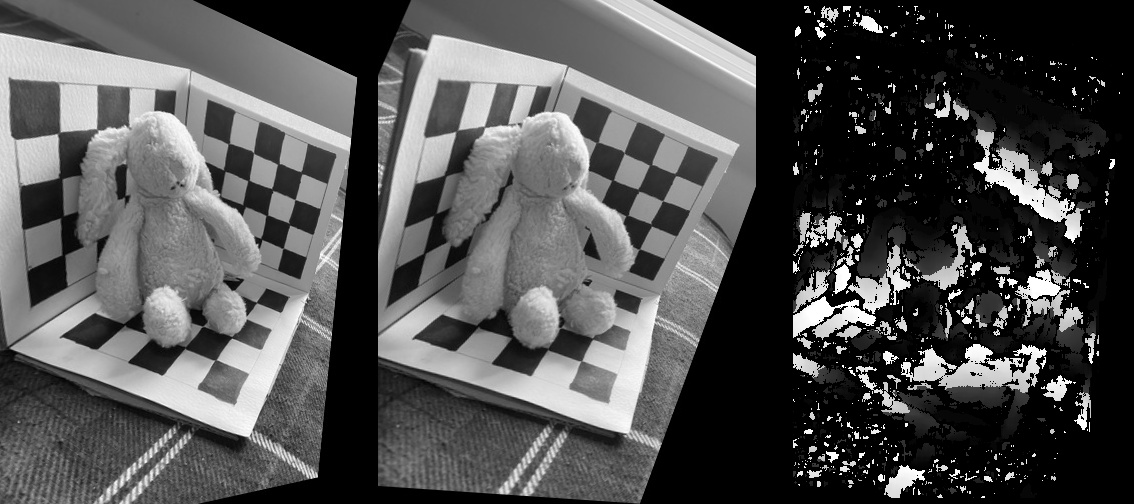
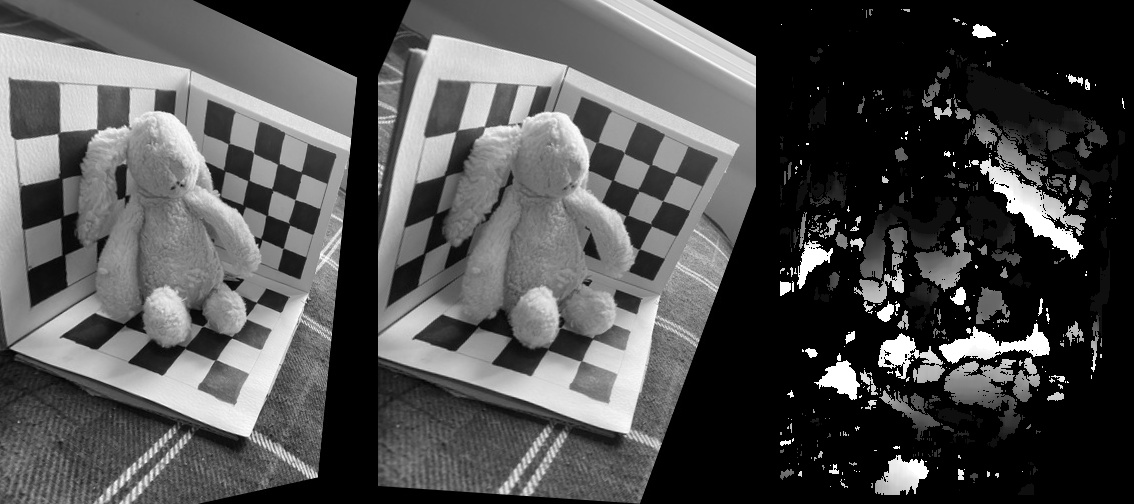
depth map update

diff --git a/task_5/stereo.py b/task_5/stereo.py
@@ -4,8 +4,8 @@ import matplotlib.pyplot as plt
 
 # Load the left and right images 
 # in gray scale 
-img1_name = '../images/FD_01.jpg'
-img2_name = '../images/FD_02.jpg'
+img1_name = '../images/FD_02.jpg'
+img2_name = '../images/FD_05.jpg'
 
 img1 = cv2.imread(img1_name, 0) 
 img2 = cv2.imread(img2_name, 0)
@@ -51,8 +51,8 @@ _, H1, H2 = cv2.stereoRectifyUncalibrated(
 # Adapted from: https://stackoverflow.com/a/62607343
 img1_rectified = cv2.warpPerspective(img1, H1, (w1, h1))
 img2_rectified = cv2.warpPerspective(img2, H2, (w2, h2))
-cv2.imwrite("rectified_5.jpg", img1_rectified)
-cv2.imwrite("rectified_6.jpg", img2_rectified)
+cv2.imwrite("rectified_02.jpg", img1_rectified)
+cv2.imwrite("rectified_05.jpg", img2_rectified)
 
 # Draw the rectified images
 fig, axes = plt.subplots(1, 2, figsize=(15, 10))
@@ -63,5 +63,5 @@ axes[1].axhline(250)
 axes[0].axhline(450)
 axes[1].axhline(450)
 plt.suptitle("Rectified images")
-plt.savefig("rectified_images2.jpg")
+plt.savefig("rectified_images_02-05.jpg")
 plt.show()

diff --git a/task_5/depth_map.py b/task_5/depth_map.py
@@ -3,11 +3,11 @@ import numpy as np
 import cv2
 from matplotlib import pyplot as plt
 
-imgL = cv2.imread('rectified_6.jpg',0)
-imgR = cv2.imread('rectified_5.jpg',0)
+imgL = cv2.imread('rectified_8.jpg',0)
+imgR = cv2.imread('rectified_7.jpg',0)
 
 # Initialize the stereo block matching object 
-stereo = cv2.StereoBM_create(numDisparities=32, blockSize=13)
+stereo = cv2.StereoBM_create(numDisparities=16, blockSize=17)
 
 # Compute the disparity image
 disparity = stereo.compute(imgL, imgR)
@@ -20,6 +20,6 @@ disparity = np.uint8(255 * (disparity - min) / (max - min))
 # Display the result
 cv2.imshow('disparity', np.hstack((imgL, imgR, disparity)))
 cv2.waitKey(0)
-cv2.imwrite('results/depth_map3.jpg',np.hstack((imgL, imgR, disparity)))
+cv2.imwrite('results/depth_map4.jpg',np.hstack((imgL, imgR, disparity)))
 cv2.destroyAllWindows()
 
